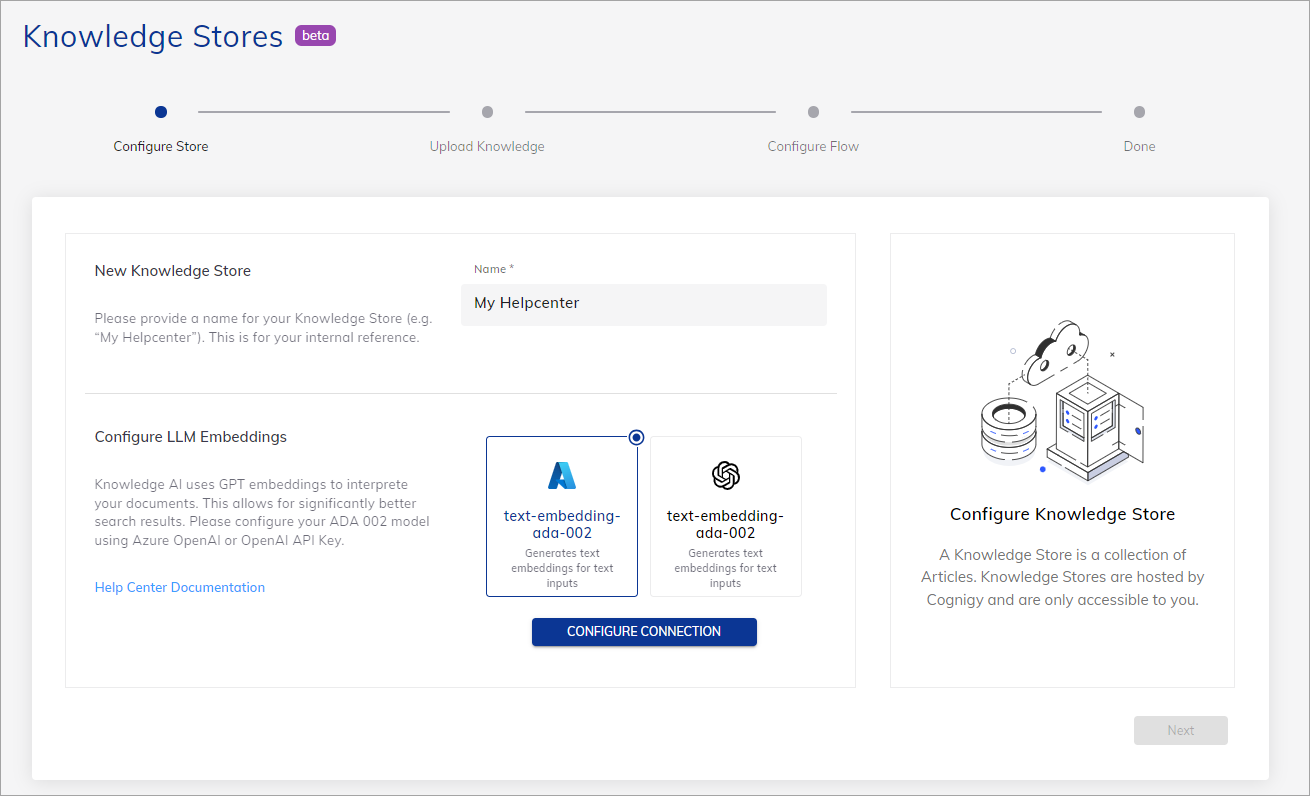
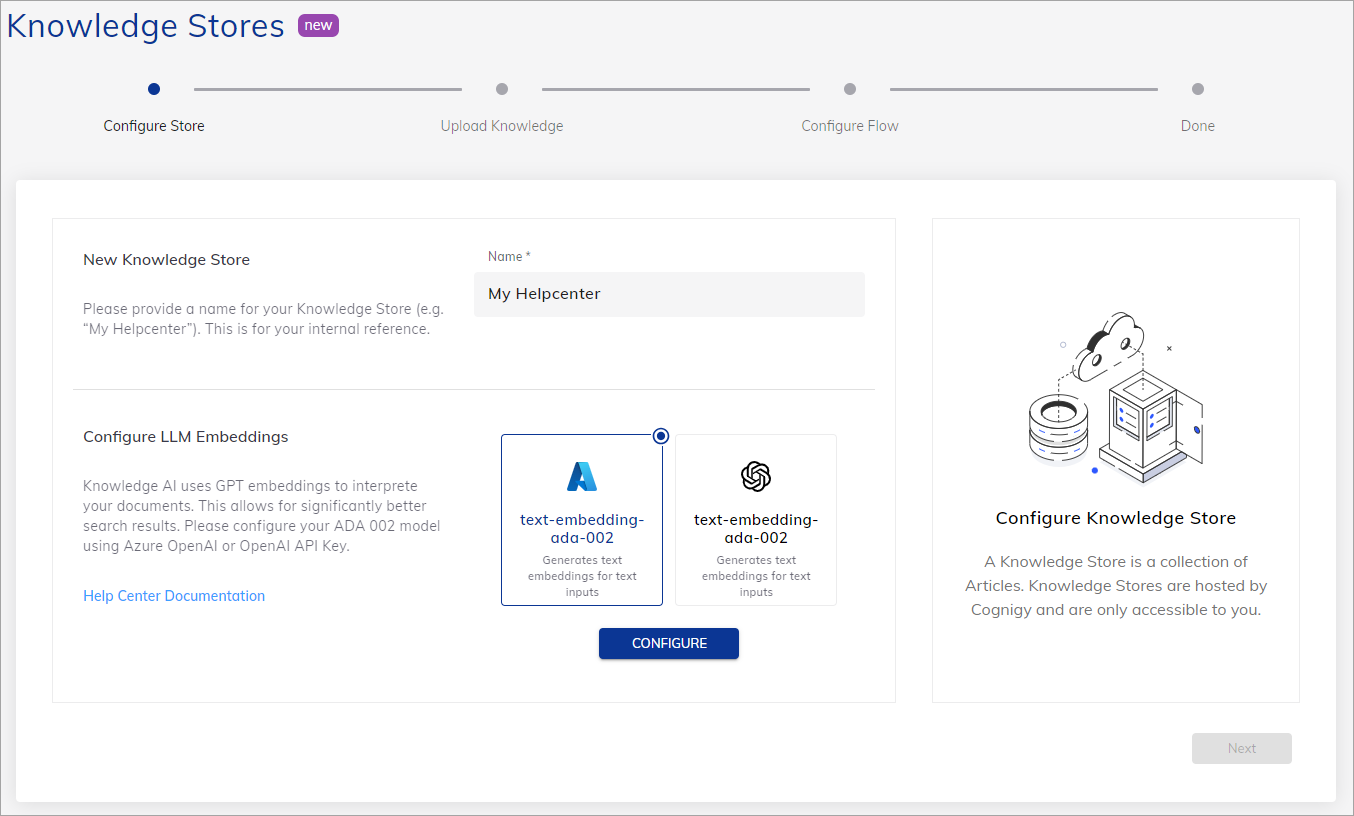
Custom URL in Azure

diff --git a/docs/en/docs/ai/knowledge-ai/overview.md b/docs/en/docs/ai/knowledge-ai/overview.md
@@ -7,7 +7,7 @@ hidden: false
 
 # Knowledge AI
 
-[![Version badge](https://img.shields.io/badge/Updated in-v4.63-blue.svg)](../../release-notes/4.63.md)
+[![Version badge](https://img.shields.io/badge/Updated in-v4.64-blue.svg)](../../release-notes/4.64.md)
 
 {! _includes/ai/terms-of-use-ks.md !}
 
@@ -39,22 +39,23 @@ You can create a preconfigured knowlege store. To do this, follow these steps:
       <img class="image-center" src="{{config.site_url}}ai/images/knowledge-ai/knowledge-ai-wizard.png" width="100%" />
     </figure>
 
-5. Click **Configure Connection** and enter credentials for the model:
+5. Click **Configure** and enter credentials for the model:
 
     === "Microsoft Azure OpenAI"
         - **Connection name** — create a unique name for your connection.<br>
         - **apiKey** — add an [Azure API Key](https://learn.microsoft.com/en-us/azure/cognitive-services/openai/quickstart?tabs=command-line&pivots=rest-api#retrieve-key-and-endpoint). This value can be found in the **Keys & Endpoint** section when examining your resource from the Azure portal. You can use either `KEY1` or `KEY2`.<br>
-        - **resourceName** — add a [resource name](https://learn.microsoft.com/en-us/azure/cognitive-services/openai/how-to/create-resource?pivots=web-portal#create-a-resource). This value can be found under **Resource Management > Deployments** in the Azure portal or alternatively under **Management > Deployments** in Azure OpenAI Studio.<br>
-        - **deploymentName** — add a [model name](https://learn.microsoft.com/en-us/azure/cognitive-services/openai/how-to/create-resource?pivots=web-portal#deploy-a-model).<br>
-        - **apiVersion** — add an [API version](https://learn.microsoft.com/en-us/azure/cognitive-services/openai/reference#rest-api-versioning). The API version to use for this operation in the `YYYY-MM-DD` format.<br>
+        - **Resource Name** — add a [resource name](https://learn.microsoft.com/en-us/azure/cognitive-services/openai/how-to/create-resource?pivots=web-portal#create-a-resource). This value can be found under **Resource Management > Deployments** in the Azure portal or alternatively under **Management > Deployments** in Azure OpenAI Studio.<br>
+        - **Deployment Name** — add a [model name](https://learn.microsoft.com/en-us/azure/cognitive-services/openai/how-to/create-resource?pivots=web-portal#deploy-a-model).<br>
+        - **Api Version** — add an [API version](https://learn.microsoft.com/en-us/azure/cognitive-services/openai/reference#rest-api-versioning). The API version to use for this operation in the `YYYY-MM-DD` format.<br>
+        - **Custom URL** — this parameter is optional. To control the connection between your clusters and the Azure OpenAI provider, you can route connections through dedicated proxy servers, creating an additional layer of security. To do this, specify the URL in the following pattern: `https://<resource-name>.openai.azure.com/openai/deployments/<deployment-name>/completions?api-version=<version-in-YYYY-MM-DD-format>`.
     === "OpenAI"
         - **Connection name** — create a unique name for your connection.<br>
         - **apiKey** — add an API Key from your OpenAI account. You can find this key in the [User settings](https://help.openai.com/en/articles/4936850-where-do-i-find-my-secret-api-key) of your OpenAI account.<br>
 
-6. Click **Next**.
-7. Download the [cognigy-sample.ctxt](https://docs.cognigy.com/ai/images/knowledge-ai/cognigy-sample.ctxt) file in the `.ctxt` format.
-8. In the **Upload Knowledge** step, select the **Cognigy CTXT** type and upload the saved file.
-9. _(Optional)_ In the **Configure Answer Extraction Model** section, select the additional model if you want to extract key points and output the search result as text or adaptive card. Click **Configure Connection** and enter model credentials.
+6. Click **Next**. 
+7. Download the [cognigy-sample.ctxt](https://docs.cognigy.com/ai/images/knowledge-ai/cognigy-sample.ctxt) file in the `.ctxt` format. 
+8. In the **Upload Knowledge** step, select the **Cognigy CTXT** type and upload the saved file, then click **Next**.
+9. _(Optional)_ In the **Configure Answer Extraction Model** section, select the additional model if you want to extract key points and output the search result as text or adaptive card. Click **Configure** and enter model credentials.
 10. _(Optional)_ When the additional model is configured, click **Create Flow**. A Flow with the **Search Extract Output** Node will be created. 
 11. Click **Next**.
 

diff --git a/docs/en/docs/_includes/ai/generative-ai/credentials.md b/docs/en/docs/_includes/ai/generative-ai/credentials.md
@@ -11,11 +11,12 @@
         8.1 Fill in the following fields:<br>
             - **Connection name** — create a unique name for your connection.<br>
             - **apiKey** — add an [Azure API Key](https://learn.microsoft.com/en-us/azure/cognitive-services/openai/quickstart?tabs=command-line&pivots=rest-api#retrieve-key-and-endpoint). This value can be found in the **Keys & Endpoint** section when examining your resource from the Azure portal. You can use either `KEY1` or `KEY2`.<br>
-            - **resourceName** — add a [resource name](https://learn.microsoft.com/en-us/azure/cognitive-services/openai/how-to/create-resource?pivots=web-portal#create-a-resource). This value can be found under **Resource Management > Deployments** in the Azure portal or alternatively under **Management > Deployments** in Azure OpenAI Studio.<br>
+            - **Resource Name** — add a [resource name](https://learn.microsoft.com/en-us/azure/cognitive-services/openai/how-to/create-resource?pivots=web-portal#create-a-resource). This value can be found under **Resource Management > Deployments** in the Azure portal or alternatively under **Management > Deployments** in Azure OpenAI Studio.<br>
         8.2 Click **Create**.<br>
         8.3 Fill in the remaining fields:<br>
-            - **deploymentName** — add a [model name](https://learn.microsoft.com/en-us/azure/cognitive-services/openai/how-to/create-resource?pivots=web-portal#deploy-a-model).<br>
-            - **apiVersion** — add an [API version](https://learn.microsoft.com/en-us/azure/cognitive-services/openai/reference#rest-api-versioning). The API version to use for this operation in the `YYYY-MM-DD` format.<br>
+            - **Deployment Name** — add a [model name](https://learn.microsoft.com/en-us/azure/cognitive-services/openai/how-to/create-resource?pivots=web-portal#deploy-a-model).<br>
+            - **API Version** — add an [API version](https://learn.microsoft.com/en-us/azure/cognitive-services/openai/reference#rest-api-versioning). The API version to use for this operation in the `YYYY-MM-DD` format.<br>
+            - **Custom URL** — this parameter is optional. To control the connection between your clusters and the Azure OpenAI provider, you can route connections through dedicated proxy servers, creating an additional layer of security. To do this, specify the URL in the following pattern: `https://<resource-name>.openai.azure.com/openai/deployments/<deployment-name>/completions?api-version=<version-in-YYYY-MM-DD-format>`.
 
     === "OpenAI"
         8.1 Fill in the following fields:<br>

diff --git a/docs/en/docs/ai/resources/build/llm.md b/docs/en/docs/ai/resources/build/llm.md
@@ -6,7 +6,7 @@ hidden: false
 ---
 # Large Language Model (LLM)
 
-[![Version badge](https://img.shields.io/badge/Updated in-v4.63-blue.svg)](../../../release-notes/4.63.md)
+[![Version badge](https://img.shields.io/badge/Updated in-v4.64-blue.svg)](../../../release-notes/4.64.md)
 
 [Large Language Models (LLMs)](https://en.wikipedia.org/wiki/Large_language_model) are a specific type of Generative AI model that are designed for generating human-like text based on the input and context provided. These models are trained on vast amounts of text data, allowing them to learn patterns, syntax, and semantic relationships between words and phrases. 
 
